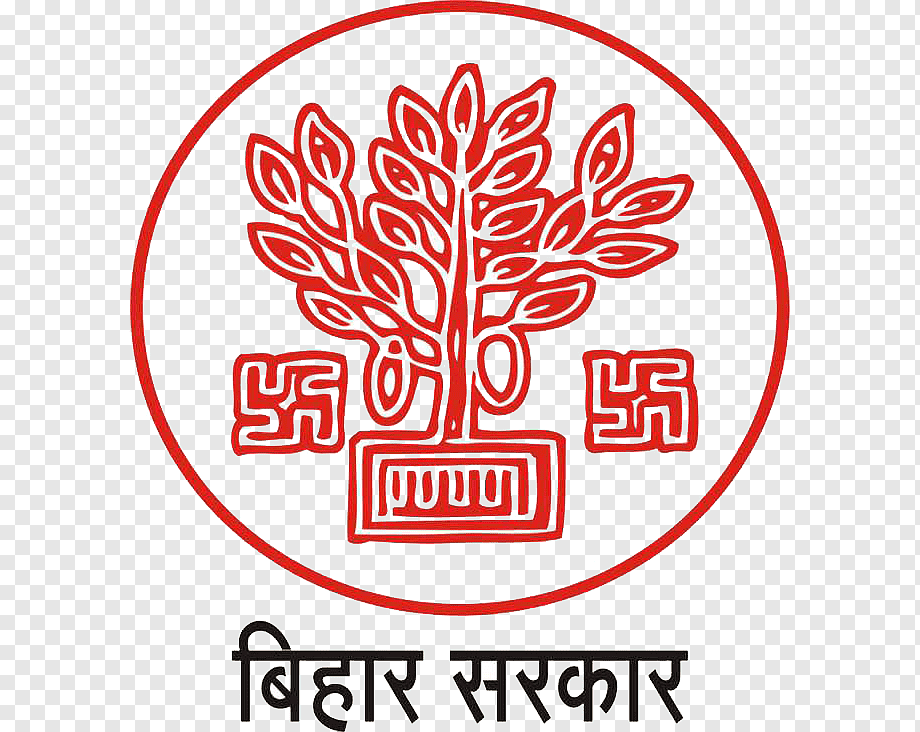
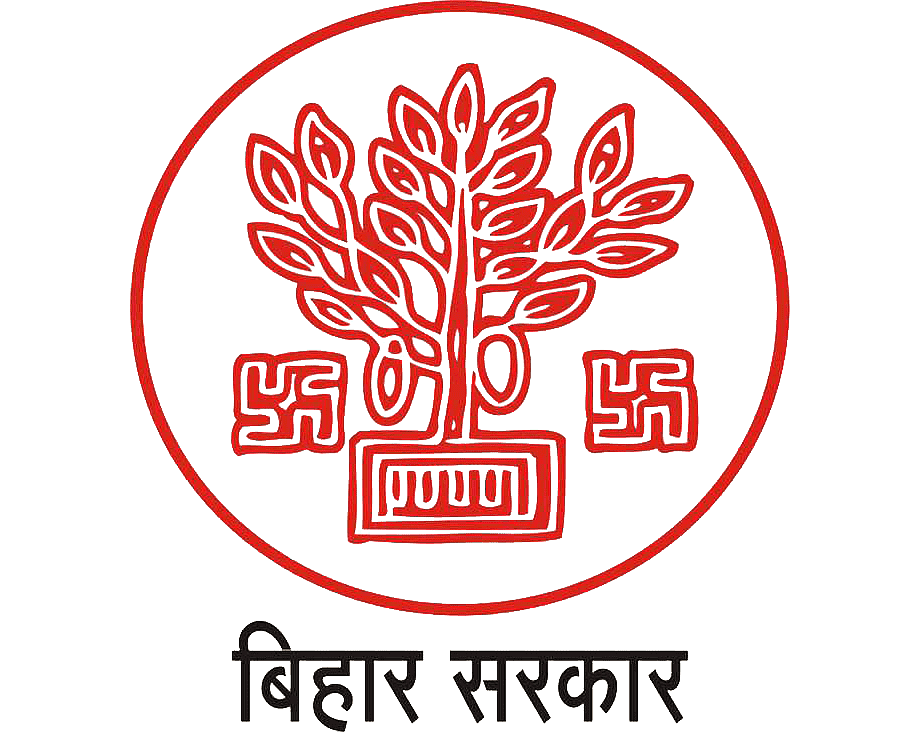
Clean up Institutional Support section
- Removed the descriptive paragraph under the heading.
- Removed the bordered box around each partner logo.
- Fixed the Government of Bihar logo: it had a checkerboard
  transparency-indicator pattern baked into opaque pixels instead of
  a real alpha channel, showing as a grey box on the page. Rebuilt
  it with genuine transparency to match the other logos.

diff --git a/css/site.css b/css/site.css
@@ -340,14 +340,11 @@ background: rgba(253, 251, 247, 0.95);
   /* ═══ SUPPORTED ═══ */
   .supported { background: var(--color-cream); text-align: center; }
   .supported .section-inner { max-width: 980px; }
-  .supported-text { font-size: 1rem; color: var(--color-ink-light); line-height: 1.8; margin-top: 20px; }
-  .partner-logos { display: flex; justify-content: center; align-items: center; gap: 18px; margin-top: 48px; flex-wrap: nowrap; }
+  .partner-logos { display: flex; justify-content: center; align-items: center; gap: 18px; margin-top: 32px; flex-wrap: nowrap; }
   .partner-logo {
     display: flex; align-items: center; justify-content: center;
     width: 150px; height: 76px; padding: 12px 16px; flex-shrink: 0;
-    border: 1px solid var(--color-blush-light); border-radius: 4px; background: #fff; transition: all 0.3s;
   }
-  .partner-logo:hover { border-color: var(--color-crimson); box-shadow: 0 4px 16px rgba(128, 0, 25, 0.08); }
   .partner-logo img { max-width: 100%; max-height: 100%; width: auto; height: auto; object-fit: contain; }
   .partner-logo-combo { width: 230px; gap: 10px; }
   .partner-logo-combo img { max-width: 46%; }

diff --git a/index.html b/index.html
@@ -191,7 +191,6 @@
   <div class="section-inner">
     <div class="section-label reveal">Our Partners</div>
     <h2 class="section-heading reveal" style="max-width:100%;text-align:center;">Institutional Support</h2>
-    <p class="supported-text reveal">GRAMA's work is supported by a grant of the Bill &amp; Melinda Gates Foundation via an institutional partnership with the University of Maryland, College Park.</p>
     <div class="partner-logos reveal">
       <div class="partner-logo"><img src="images/site/partner-bmgf.png" alt="Bill &amp; Melinda Gates Foundation"></div>
       <div class="partner-logo"><img src="images/site/partner-umd.png" alt="University of Maryland"></div>
